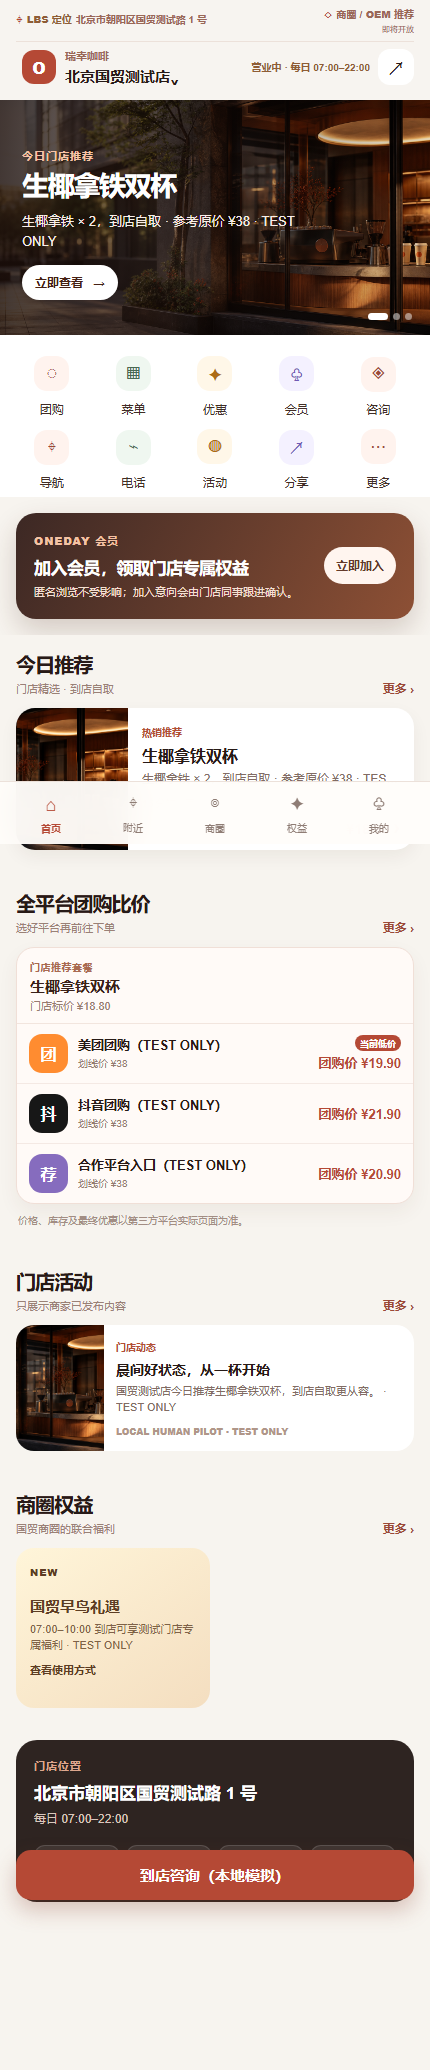
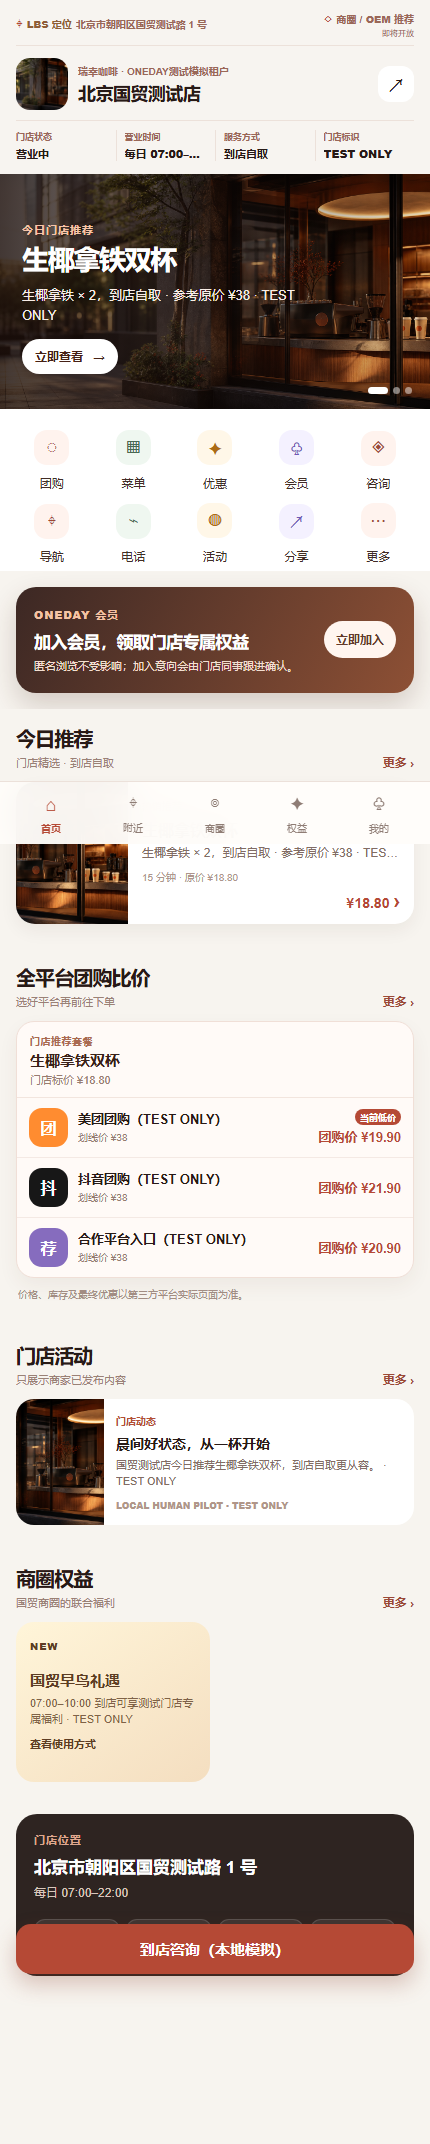
feat(consumer): structure storefront store info

diff --git a/apps/consumer-web/app/c/stores/[id]/store.module.css b/apps/consumer-web/app/c/stores/[id]/store.module.css
@@ -12,11 +12,10 @@
 }
 .topbar {
   display: grid;
-  grid-template-columns: minmax(0, 1fr) auto 36px;
-  grid-template-rows: 30px minmax(42px, auto);
+  grid-template-columns: minmax(0, 1fr);
   gap: 8px;
   align-items: center;
-  min-height: 100px;
+  min-height: 174px;
   padding: 8px 16px 12px;
   background: rgba(247, 244, 239, 0.96);
 }
@@ -84,6 +83,91 @@
   color: #9a6757;
   font-size: 8px;
   white-space: nowrap;
+}
+.storeOverview {
+  display: grid;
+  grid-template-columns: minmax(0, 1fr) 36px;
+  gap: 10px;
+  align-items: center;
+  padding-top: 2px;
+}
+.storeIdentity {
+  display: flex;
+  min-width: 0;
+  gap: 10px;
+  align-items: center;
+  border: 0;
+  padding: 0;
+  color: inherit;
+  background: transparent;
+  font: inherit;
+  text-align: left;
+}
+.storeThumb {
+  width: 52px;
+  height: 52px;
+  flex: 0 0 auto;
+  border-radius: 14px;
+  object-fit: cover;
+}
+.storeIdentityCopy {
+  display: grid;
+  min-width: 0;
+  gap: 3px;
+}
+.storeIdentityCopy small,
+.storeIdentityCopy strong {
+  overflow: hidden;
+  text-overflow: ellipsis;
+  white-space: nowrap;
+}
+.storeIdentityCopy small {
+  color: #9a6757;
+  font-size: 10px;
+  font-weight: 600;
+}
+.storeIdentityCopy strong {
+  font-size: 18px;
+  letter-spacing: -0.03em;
+}
+.storeFacts {
+  display: grid;
+  grid-template-columns: repeat(4, minmax(0, 1fr));
+  margin: 0;
+  border-top: 1px solid #ece1da;
+  padding-top: 9px;
+}
+.storeFacts > div {
+  min-width: 0;
+  padding: 0 8px;
+}
+.storeFacts > div:first-child {
+  padding-left: 0;
+}
+.storeFacts > div + div {
+  border-left: 1px solid #ece1da;
+}
+.storeFacts dt {
+  overflow: hidden;
+  color: #9a6757;
+  font-size: 9px;
+  font-weight: 700;
+  text-overflow: ellipsis;
+  white-space: nowrap;
+}
+.storeFacts dd {
+  overflow: hidden;
+  margin: 4px 0 0;
+  color: #271a17;
+  font-size: 11px;
+  font-weight: 800;
+  text-overflow: ellipsis;
+  white-space: nowrap;
+}
+.topbar > .storeButton,
+.topbar > .openState,
+.topbar > .shareButton {
+  display: none;
 }
 .storeButton,
 .shareButton {

diff --git a/apps/consumer-web/app/c/stores/[id]/store.tsx b/apps/consumer-web/app/c/stores/[id]/store.tsx
@@ -274,6 +274,50 @@ export default function StorePage({
               <small>即将开放</small>
             </span>
           </div>
+          <div className={styles.storeOverview}>
+            <button
+              className={styles.storeIdentity}
+              type="button"
+              onClick={() => setSwitcher(true)}
+              aria-haspopup="dialog"
+            >
+              {data.store.imageUrl ? (
+                <img className={styles.storeThumb} src={data.store.imageUrl} alt="" />
+              ) : (
+                <span className={styles.brandMark}>O</span>
+              )}
+              <span className={styles.storeIdentityCopy}>
+                <small>{data.store.merchant}</small>
+                <strong>{data.store.name}</strong>
+              </span>
+            </button>
+            <button
+              className={styles.shareButton}
+              type="button"
+              onClick={share}
+              aria-label="分享门店"
+            >
+              ↗
+            </button>
+          </div>
+          <dl className={styles.storeFacts} aria-label="门店基础信息">
+            <div>
+              <dt>门店状态</dt>
+              <dd>营业中</dd>
+            </div>
+            <div>
+              <dt>营业时间</dt>
+              <dd>{data.store.businessHours ?? '以门店为准'}</dd>
+            </div>
+            <div>
+              <dt>服务方式</dt>
+              <dd>到店自取</dd>
+            </div>
+            <div>
+              <dt>门店标识</dt>
+              <dd>TEST ONLY</dd>
+            </div>
+          </dl>
           <button
             className={styles.storeButton}
             type="button"

diff --git a/PROJECT_STATE/CURRENT_STATE.md b/PROJECT_STATE/CURRENT_STATE.md
@@ -13,7 +13,7 @@
 - blocker: null
 - known_observation: H-002 Playwright binds development servers to 127.0.0.1, avoiding the prior cross-origin development-resource warning during four-terminal local acceptance.
 - verified_h002: SessionApiClient is the protected E/M/P request boundary; 36 pages / 54 direct token reads removed; consumer public routes require an explicit tenant and do not default to system; 173 repository tests and 6 H-002 Playwright journeys passed.
-- next_scope: Product owner visual acceptance for `CONSUMER-COMMERCIAL-HOME-V1`. The Consumer storefront is available on the isolated local HUMAN-PILOT database with persisted package-platform prices (migration 047), an LBS/future-recommendation storefront header and aligned service/action child pages; do not expand Employee, Management or Platform while this acceptance is pending.
+- next_scope: Product owner visual acceptance for `CONSUMER-COMMERCIAL-HOME-V1`. The Consumer storefront is available on the isolated local HUMAN-PILOT database with persisted package-platform prices (migration 047), an LBS/future-recommendation header and a verified store-information card layout; do not expand Employee, Management or Platform while this acceptance is pending.
 - verified_pre_pilot_polish: PASS at 268464d. A-1/A-2/A-3, B-1/B-2/B-3 and D-1/D-3 are accepted in PROJECT_STATE/PRE_PILOT_POLISH_ACCEPTANCE.md; focused HTTP, updated browser, H-002, B2-B7, format, lint, 18-package typecheck/build, 184 repository tests and 74 evidence checks passed.
 - verified_audit_batch_2: PASS at 5c0ea50. Public consumer action, store consultation and service consultation atomically project one tenant-scoped operating trail. HTTP acceptance passed for concurrent/replayed idempotency, share-code employee ownership, employee follow-up/completion/evidence, management visibility, lead-pool fallback, cross-tenant denial and unauthenticated denial; 175 repository tests and all quality gates passed.
 - verified_audit_batch_3: Worker now consumes internal Outbox records with event-consumption de-duplication and retry diagnostics, and runs the shared reminder/overdue state machine. Isolated real Worker acceptance passed; 177 repository tests and static quality gates passed at 3998a7d.

diff --git a/evidence/CONSUMER-COMMERCIAL-HOME-V1/ACCEPTANCE.md b/evidence/CONSUMER-COMMERCIAL-HOME-V1/ACCEPTANCE.md
@@ -38,6 +38,12 @@
 - The existing warm palette, store title/status/share row, Banner and all lower modules remain unchanged. Visual evidence: `storefront-top-layout-390.png`.
 - Consumer typecheck and production build passed. Status remains `AWAITING_PRODUCT_OWNER_UI_ACCEPTANCE`.
 
+## Store-information card follow-up (2026-08-09)
+
+- Replaced only the prior compact store-title/business-hours row with a card hierarchy derived from the supplied reference: existing store thumbnail, persisted merchant/store name, then four fact cells for open state, business hours, pickup method and TEST ONLY status.
+- No rating, monthly sales, delivery time, promotion or recommendation score was added because the local merchant model does not persist those facts. The existing colors, LBS/future-recommendation row, Banner and all lower content remain unchanged.
+- 390px visual evidence: `storefront-store-info-390.png`. Consumer typecheck and production build passed; status remains `AWAITING_PRODUCT_OWNER_UI_ACCEPTANCE`.
+
 ## Follow-up — package/platform prices and Consumer visual alignment (2026-08-08)
 
 - Migration `047_store_service_platform_offers` persists the relationship between one recommended package, one active store platform action and its offer/market price; it is not derived from a link label.

diff --git a/PROJECT_STATE/LATEST_HANDOFF.md b/PROJECT_STATE/LATEST_HANDOFF.md
@@ -1,5 +1,10 @@
 # LATEST_HANDOFF
 
+## CONSUMER-COMMERCIAL-HOME-V1 — 2026-08-09 store-information-card follow-up
+
+- The storefront's former one-line store identity/business-hours row is now a compact information card using only persisted/known facts: store image, merchant/store name, open state, business hours, pickup method and TEST ONLY marker. It follows the supplied information hierarchy without copying unsupported score, sales or delivery data.
+- Existing colors, the LBS/future-recommendation row, Banner and all lower sections remain unchanged. 390px visual evidence: `evidence/CONSUMER-COMMERCIAL-HOME-V1/storefront-store-info-390.png`; Consumer typecheck/build passed. Status remains `AWAITING_PRODUCT_OWNER_UI_ACCEPTANCE`.
+
 ## CONSUMER-COMMERCIAL-HOME-V1 — 2026-08-09 storefront-header follow-up
 
 - Only the storefront header was restyled: the upper row now has a tracked LBS-location action on the left and a non-interactive future “business circle / OEM recommendation” placeholder on the right. The existing colors, store identity/status/share row, Banner and all lower sections are unchanged.

diff --git a/PROJECT_STATE/TASK_QUEUE.md b/PROJECT_STATE/TASK_QUEUE.md
@@ -2,7 +2,7 @@
 
 ## Current product-owner acceptance
 
-- [ ] CONSUMER-COMMERCIAL-HOME-V1 AWAITING_PRODUCT_OWNER_UI_ACCEPTANCE - Consumer-only commercial storefront implemented and technically verified. Follow-ups add persisted package-to-platform comparison prices, align Consumer service/action child-page styling, and restructure only the storefront header with LBS plus a future recommendation placeholder; final visual decision remains with the product owner. Evidence: `evidence/CONSUMER-COMMERCIAL-HOME-V1/ACCEPTANCE.md`.
+- [ ] CONSUMER-COMMERCIAL-HOME-V1 AWAITING_PRODUCT_OWNER_UI_ACCEPTANCE - Consumer-only commercial storefront implemented and technically verified. Follow-ups add persisted package-to-platform comparison prices, align Consumer service/action child-page styling, and restructure the storefront header with LBS, a future recommendation placeholder and a persisted-data store-information card; final visual decision remains with the product owner. Evidence: `evidence/CONSUMER-COMMERCIAL-HOME-V1/ACCEPTANCE.md`.
 
 ## Audit hardening status (latest)
 

diff --git a/PROJECT_STATE/CHANGELOG.md b/PROJECT_STATE/CHANGELOG.md
@@ -1,5 +1,10 @@
 # CHANGELOG
 
+## 2026-08-09 — CONSUMER-COMMERCIAL-HOME-V1 store-information card
+
+- Replaced the storefront's single-line store title/business-hours area with a reference-inspired store-information card: existing store image, persisted store name, open state, business hours, service method and TEST ONLY marker.
+- Kept the existing LBS/future-recommendation row, warm color system, Banner and lower storefront modules unchanged; no rating, sales or other unsupported marketing metrics were invented.
+
 ## 2026-08-09 — CONSUMER-COMMERCIAL-HOME-V1 storefront header layout
 
 - Reworked only the storefront introduction/header layout without changing its color system: LBS location is on the upper left and a non-interactive future “business circle / OEM recommendation” placeholder is on the upper right.
